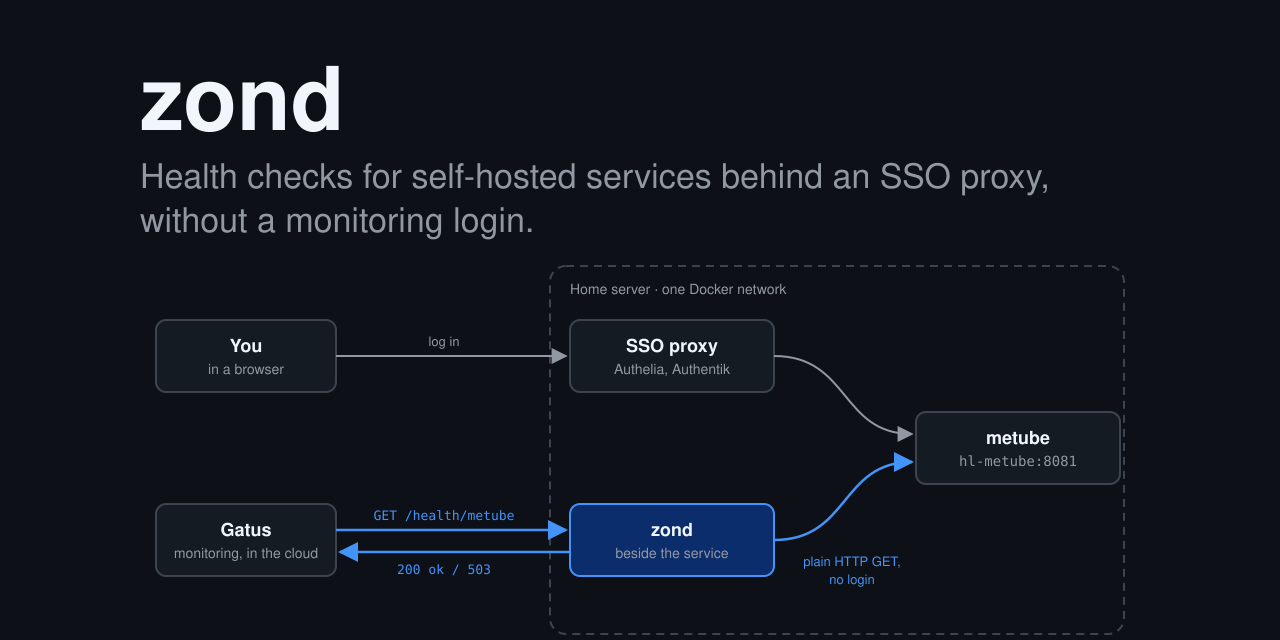
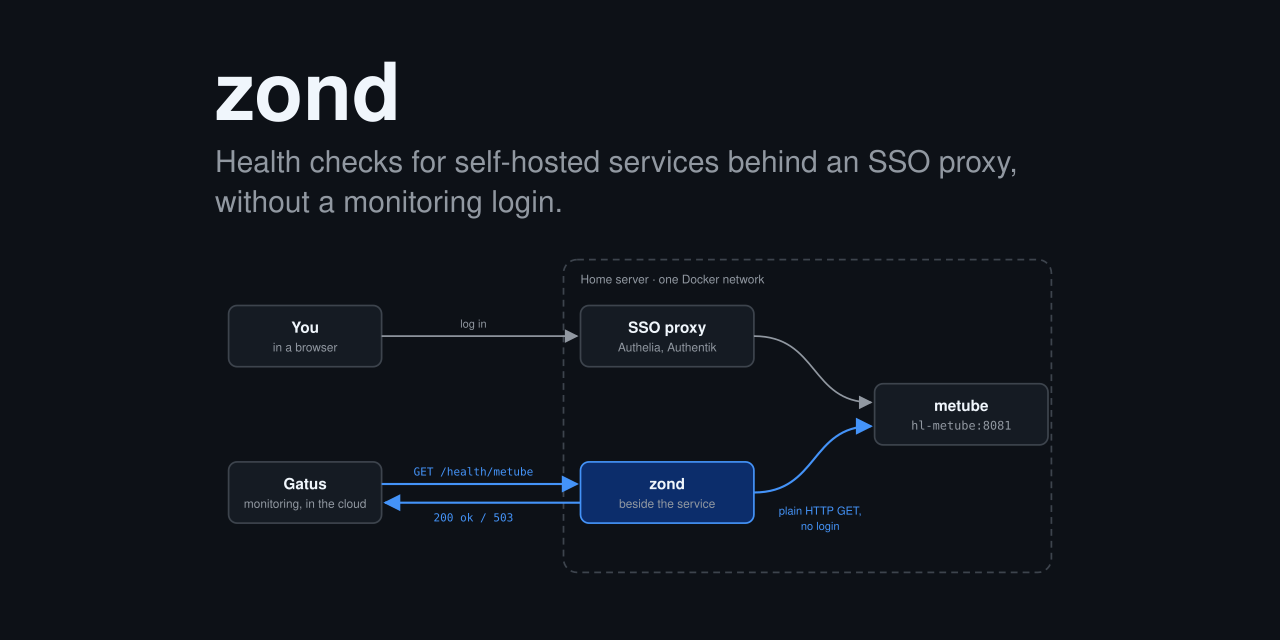
docs: keep the social preview inside the safe border

diff --git a/AGENTS.md b/AGENTS.md
@@ -97,10 +97,15 @@ reference lives in `docs/`: `api.md`, `configuration.md`, `self-hosting.md` and
 `<picture>`. They share every coordinate and differ only in colours: edit the light one, then
 regenerate the dark one with the colour swap below, so they never drift.
 
-`media/social-preview.png` (1280×640) is the GitHub social preview: the title, the tagline and
-`docs/diagram-dark.svg` on `#0d1117`, rendered with `magick`. GitHub has no API for it, so after
-changing it, upload it by hand in the repository's Settings → General → Social preview.
-
 ```bash
 sed -e 's/#59636e/#9198a1/g; s/#1f2328/#f0f6fc/g; s/#f6f8fa/#151b23/g; s/#d1d9e0/#3d444d/g; s/#ddf4ff/#0c2d6b/g; s/#0969da/#4493f8/g' docs/diagram-light.svg > docs/diagram-dark.svg
+```
+
+`media/social-preview.png` (1280×640) is the GitHub social preview. Its source,
+`media/social-preview.svg`, holds the title, the tagline and a copy of `docs/diagram-dark.svg`, so
+update that copy when the diagram changes. Render it, then upload the PNG by hand in the
+repository's Settings → General → Social preview, since GitHub has no API for it:
+
+```bash
+magick -density 96 media/social-preview.svg -resize 1280x640! media/social-preview.png
 ```
